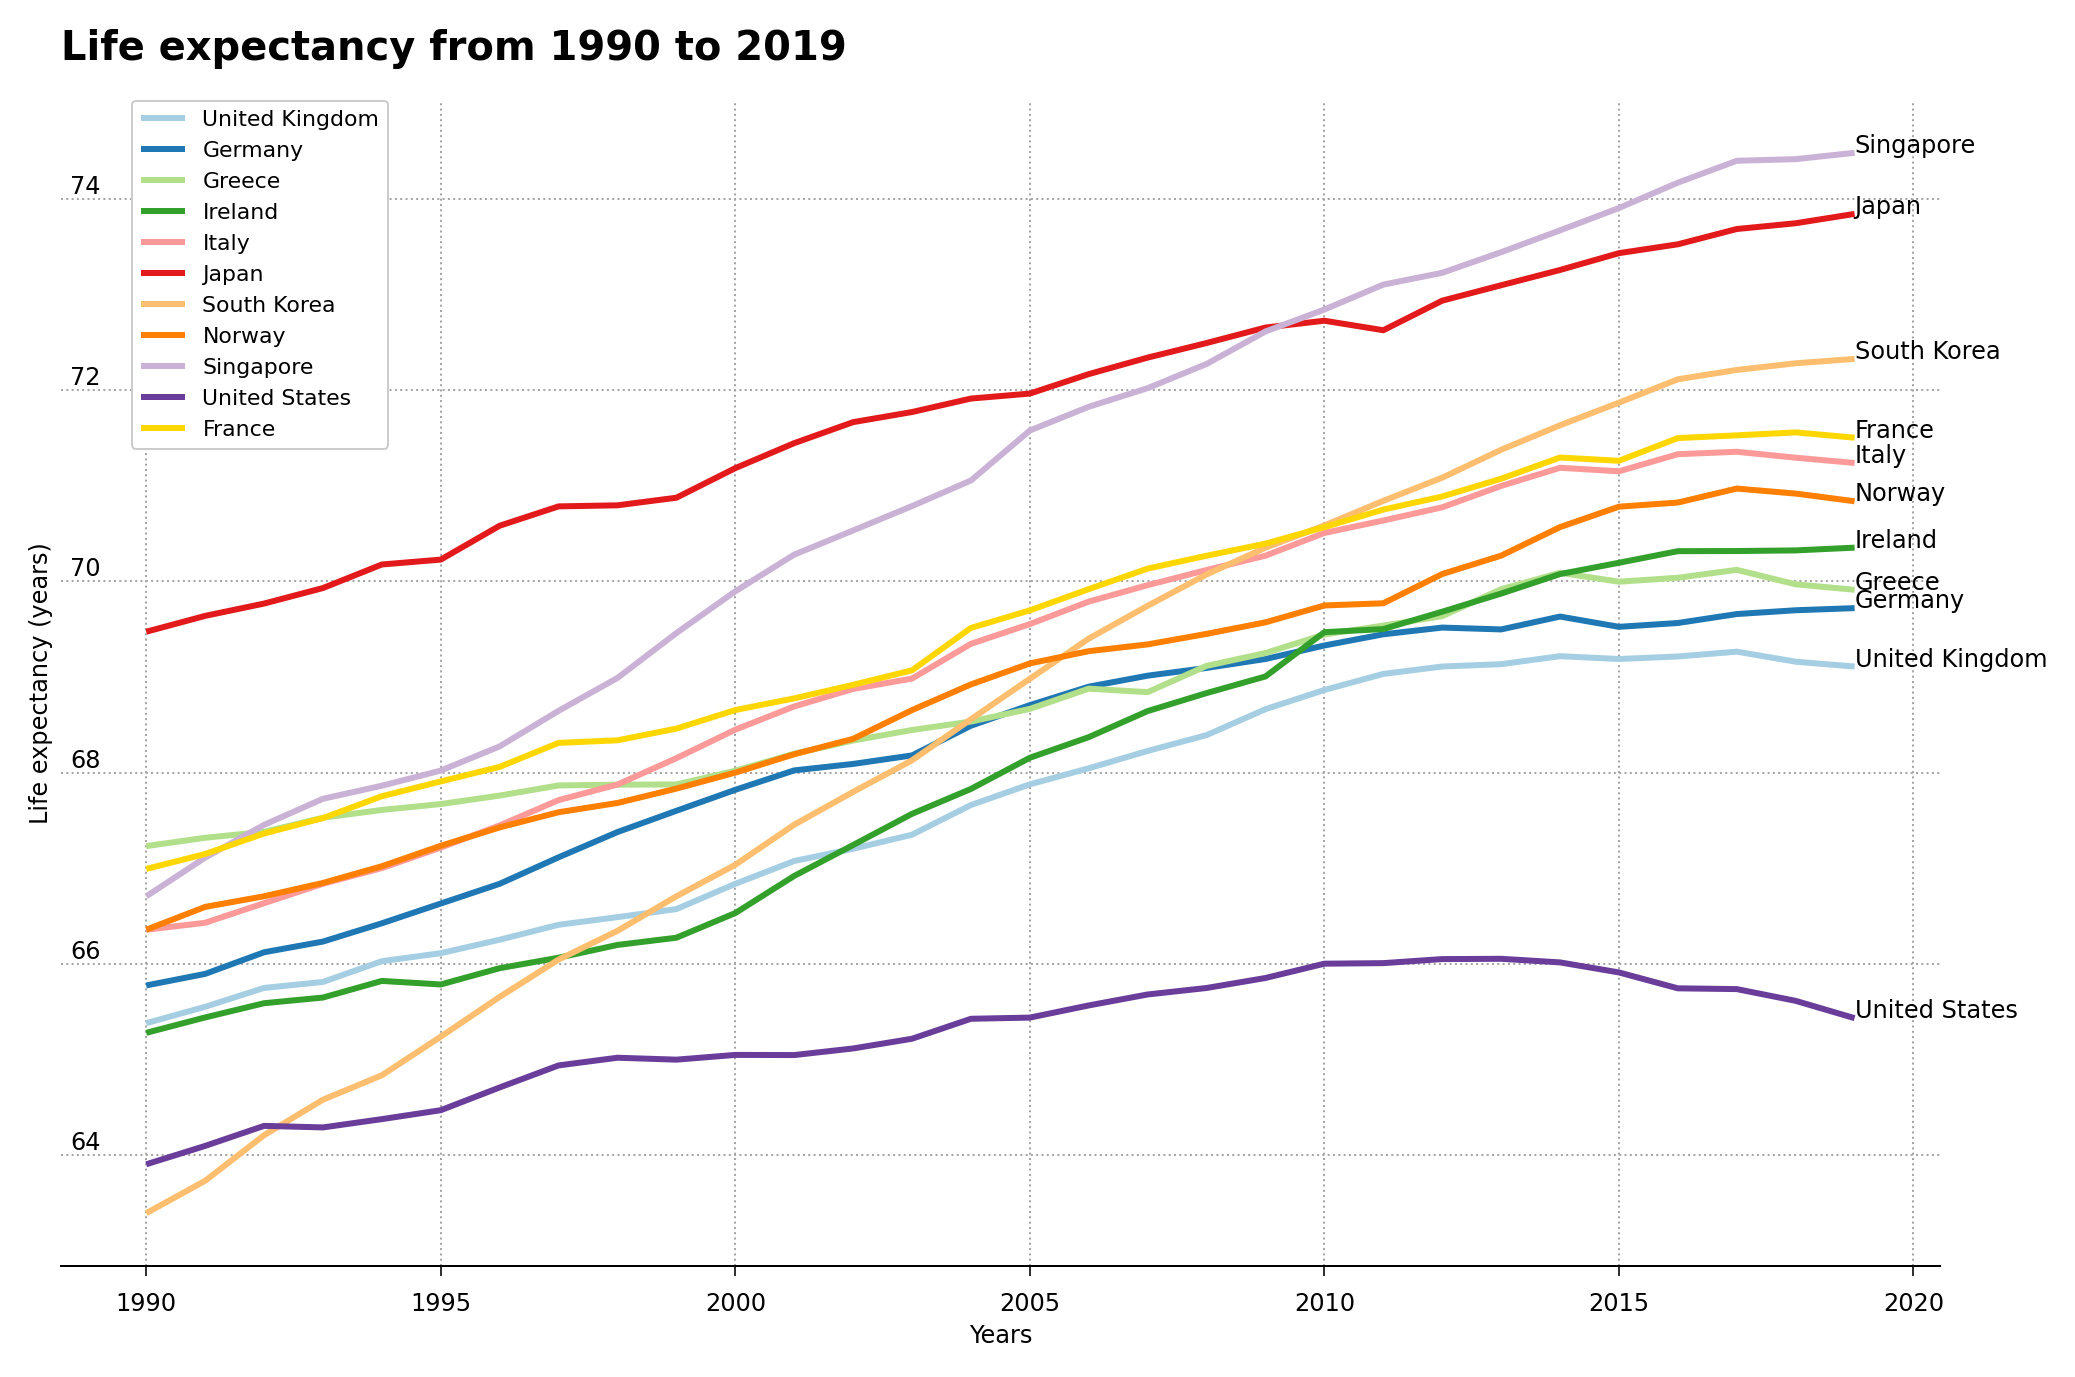
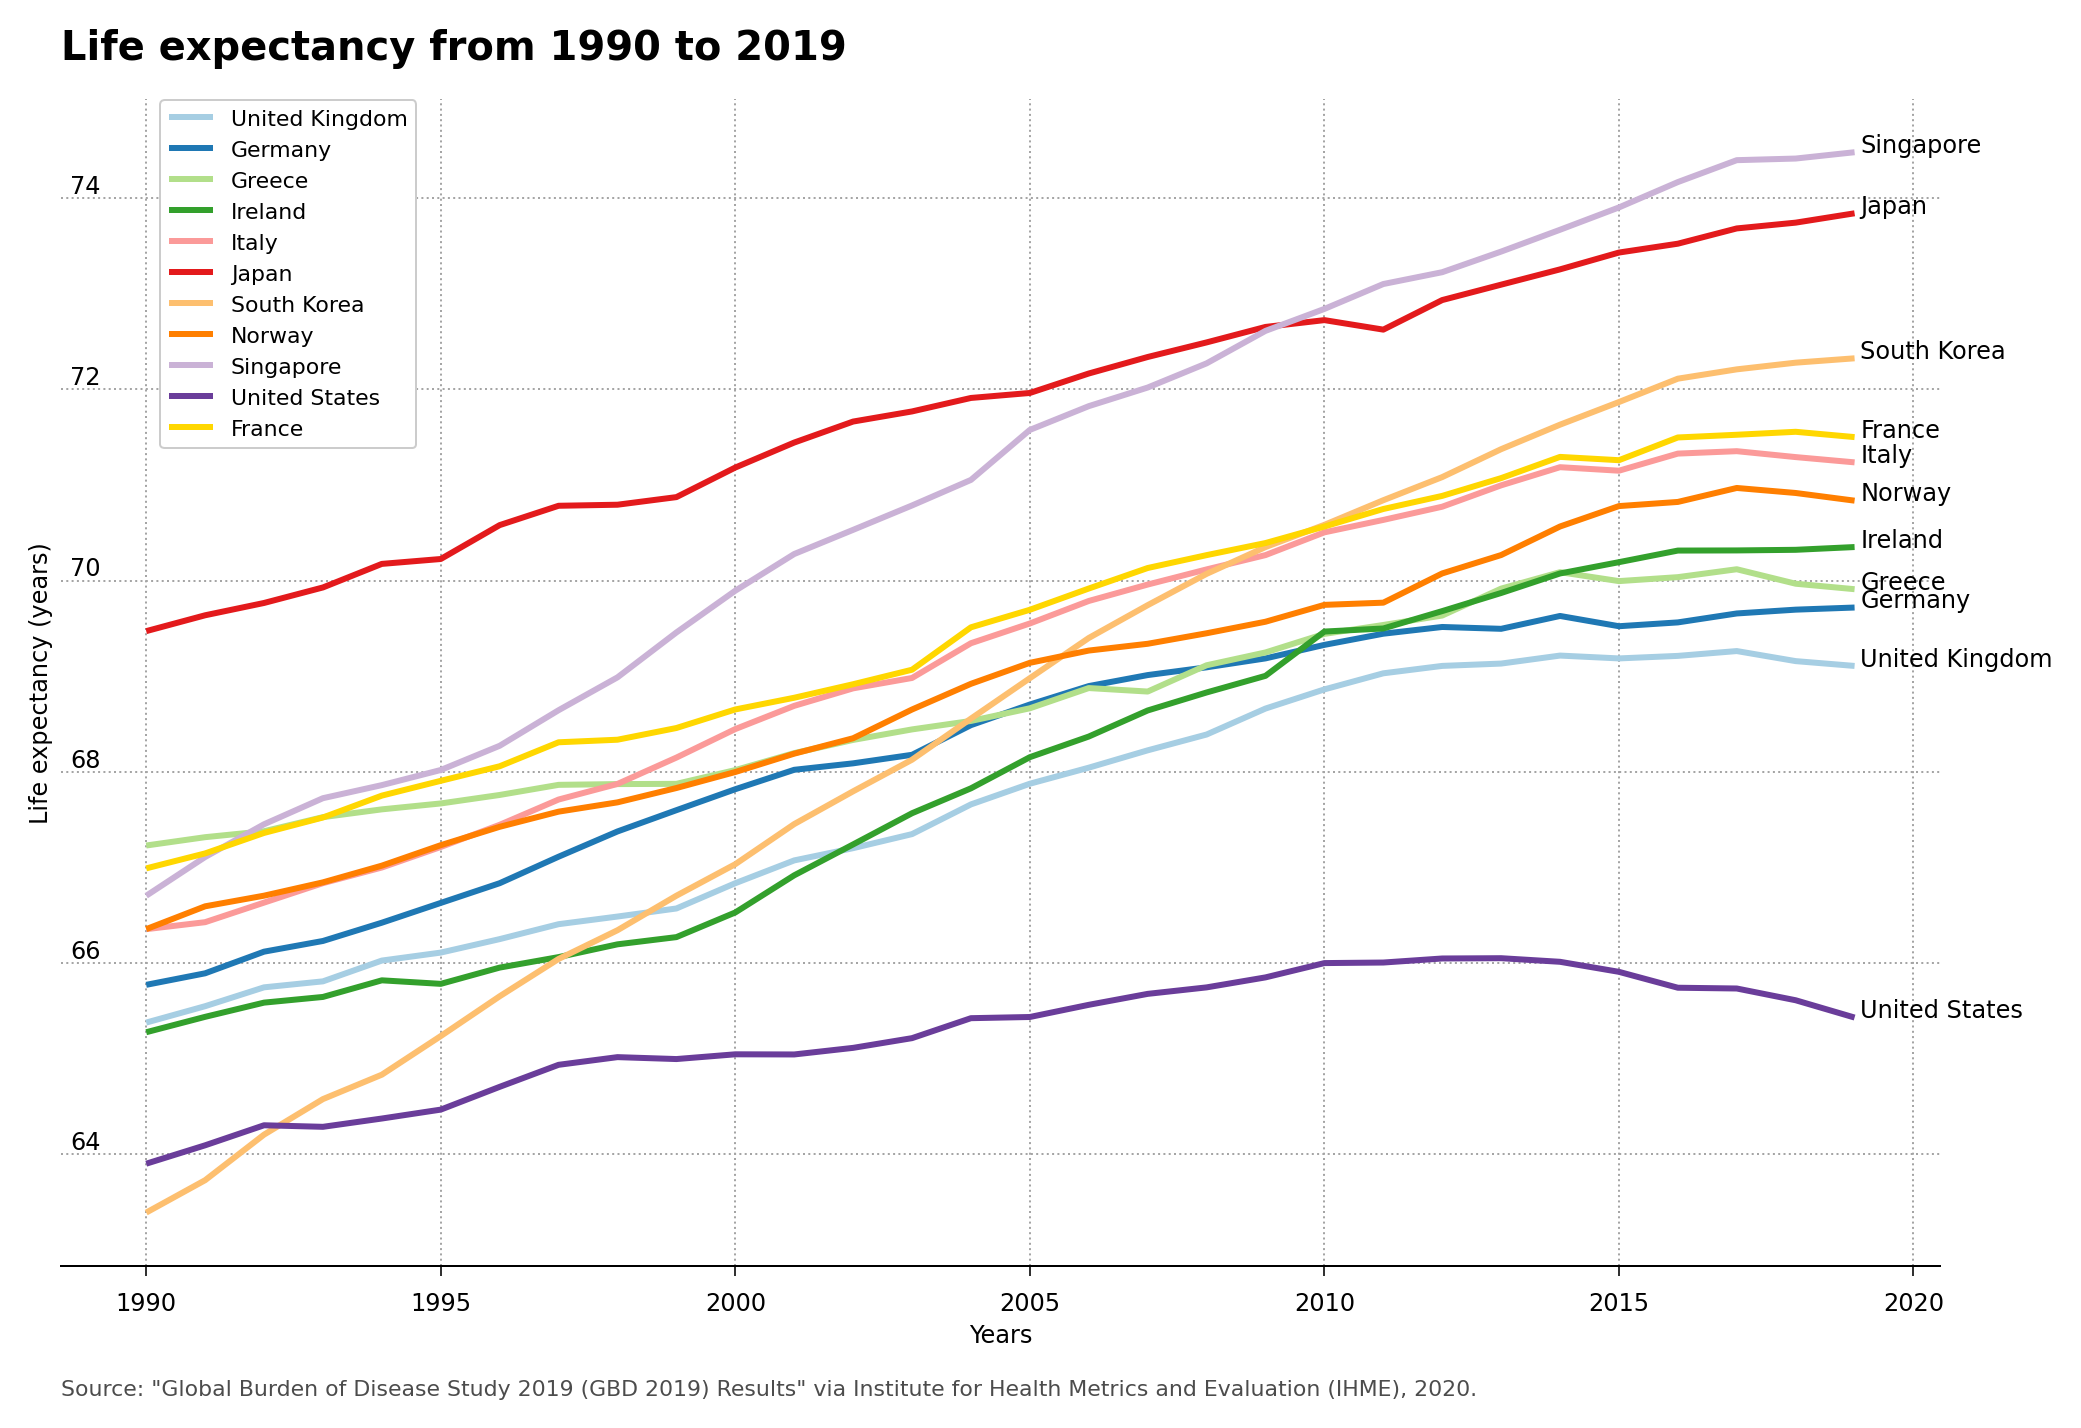
Added data source footnote

diff --git a/life-expectancy-1990-2019.py b/life-expectancy-1990-2019.py
@@ -6,7 +6,7 @@ plt.style.use('lineplot-style.mplstyle')
 
 data_dir = Path.home() / 'Programming/data/life-expectancy/'
 python_work_dir = Path.home() / 'Programming/Python/'
-work_dir = python_work_dir / 'data-visualization/life-expectancy/'
+work_dir = python_work_dir / 'data-visualization/life-expectancy_1990-2019/'
 
 # life expectancy data
 le_data_dir = data_dir / 'IHME-GBD_2019_DATA-3ae4fba0-1/'
@@ -39,7 +39,15 @@ ax.set_ylabel('Life expectancy (years)')
 ax.set_title('Life expectancy from 1990 to 2019')
 
 for label in selected_countries:
-    ax.annotate(label, (2019, select_countries_df.loc[2019, label]))
+    ax.annotate(label, (2019.1, select_countries_df.loc[2019, label]))
 
-ax.legend(loc='center right', fontsize=11, bbox_to_anchor=(0.18, 0.85))
+# Set source text
+ax.text(x=.08, y=-0.02,
+        s='''Source: "Global Burden of Disease Study 2019 (GBD 2019) Results" '''
+        '''via Institute for Health Metrics and Evaluation (IHME), 2020. ''',
+        transform=fig.transFigure,
+        ha='left', fontsize=11, alpha=.7)
+
+ax.legend(loc='center right', fontsize=11,
+          bbox_to_anchor=(0.195, 0.85), fancybox=True)
 plt.savefig(work_dir / 'plots/life_expectancy-1990-2019.png')
